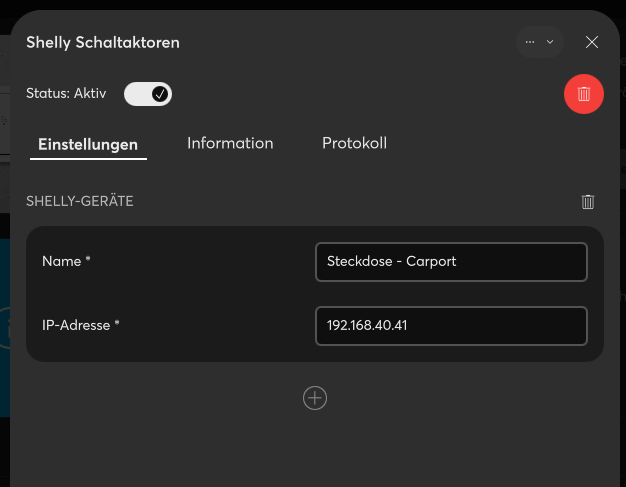
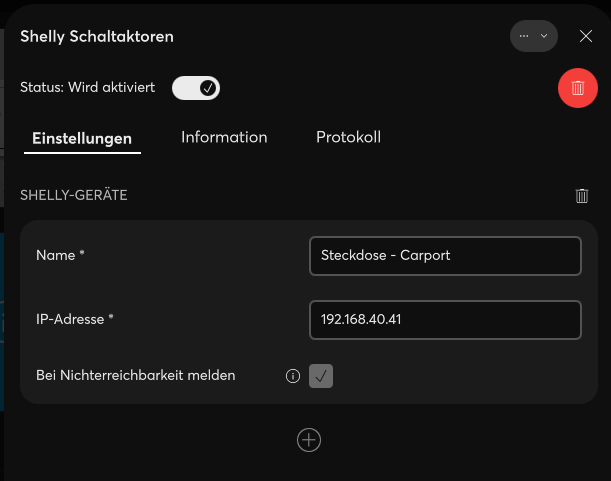
Update configuration screenshot with the new reachability option
Show the "Bei Nichterreichbarkeit melden" checkbox in the SysAP screenshot and explain the info icon in the German and English docs.

diff --git a/README.md b/README.md
@@ -46,7 +46,7 @@ unter Add-Ons hochladen und installieren.
 Die Shellys werden im SysAP-Webinterface in den Einstellungen des Add-Ons
 „Shelly Schaltaktoren“ eingetragen (Reiter **Einstellungen**, Bereich **Shelly-Geräte**):
 
-![Add-On-Konfiguration im SysAP mit einem eingetragenen Shelly](docs/sysap-konfiguration.png)
+![Add-On-Konfiguration im SysAP mit einem eingetragenen Shelly und der Option „Bei Nichterreichbarkeit melden“](docs/sysap-konfiguration.png)
 
 | Feld       | Bedeutung                                              | Beispiel           |
 |------------|--------------------------------------------------------|--------------------|
@@ -60,6 +60,7 @@ Beim Neustart oder Update des Add-Ons markiert free@home die Geräte kurz als ni
 
 - **⊕ (Plus unter der Liste):** fügt einen weiteren Shelly hinzu. Für jeden Shelly einen eigenen
   Eintrag mit Name und IP-Adresse anlegen; Shellys mit mehreren Relais brauchen trotzdem nur einen Eintrag.
+- **ⓘ neben einer Option:** zeigt eine kurze Erklärung zu dieser Option.
 - **Papierkorb rechts neben „Shelly-Geräte“:** entfernt diesen Eintrag.
 - **Protokoll:** zeigt die Log-Ausgaben des Add-Ons, z. B. „detected … (Gen2), 1 relay channel(s)“
   oder warum ein Shelly nicht verbunden werden konnte.
@@ -163,6 +164,7 @@ updated, free@home briefly marks the devices as unreachable.
 
 - **⊕ (plus below the list):** adds another Shelly. Create one entry per Shelly; a Shelly with
   several relays still needs only one entry.
+- **ⓘ next to an option:** shows a short explanation of that option.
 - **Trash icon next to "Shelly devices":** removes this entry.
 - **Log tab:** shows the add-on's log output, e.g. "detected … (Gen2), 1 relay channel(s)" or why
   a Shelly could not be connected.
